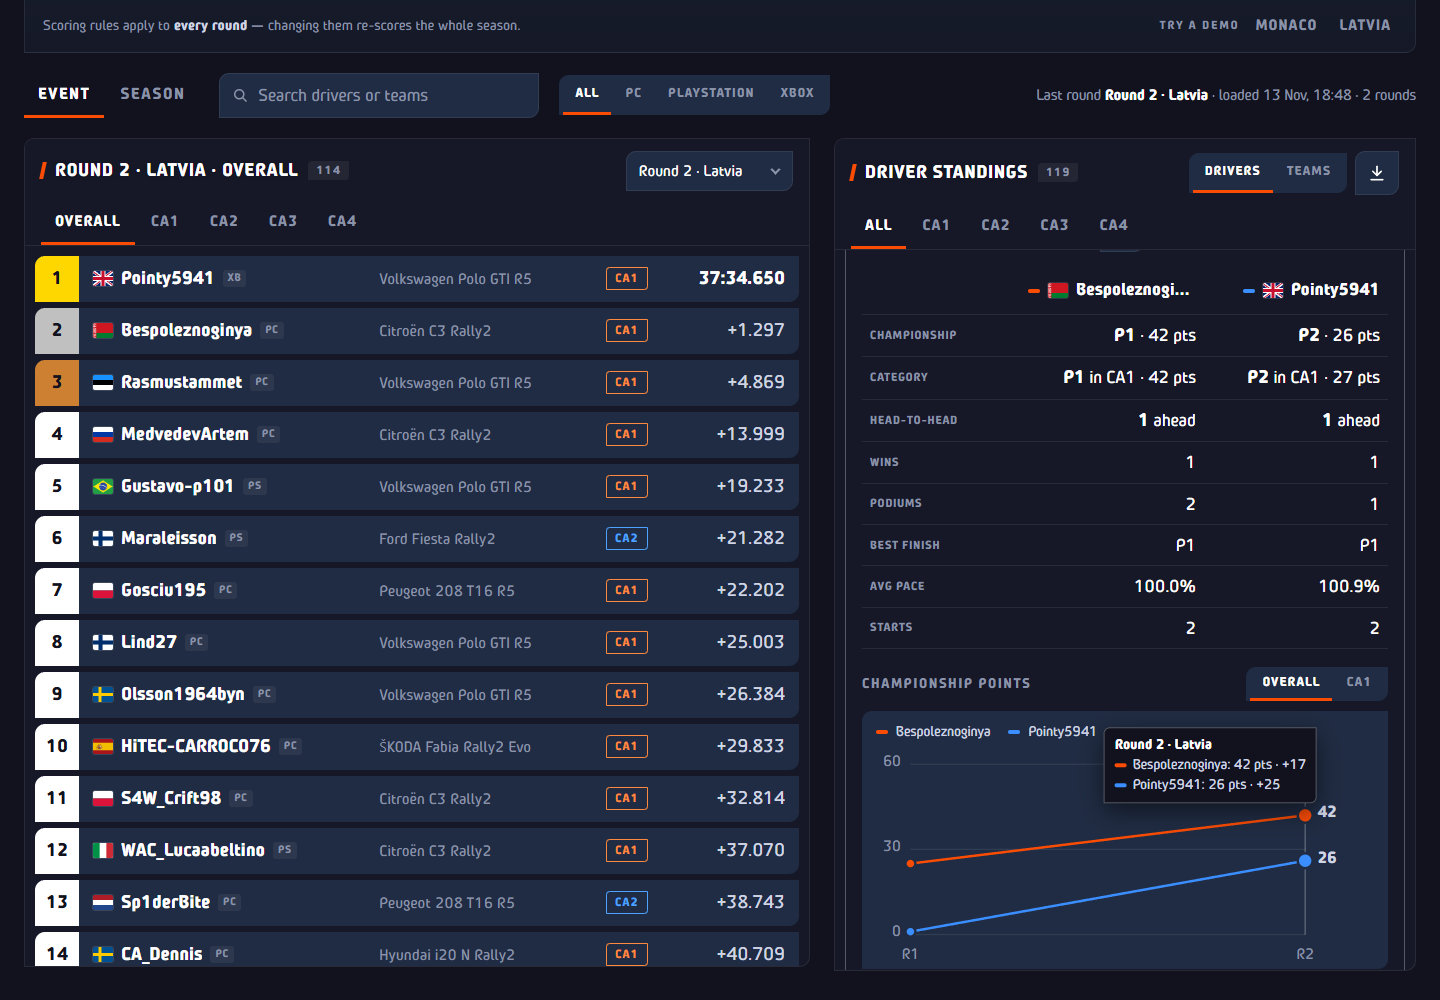
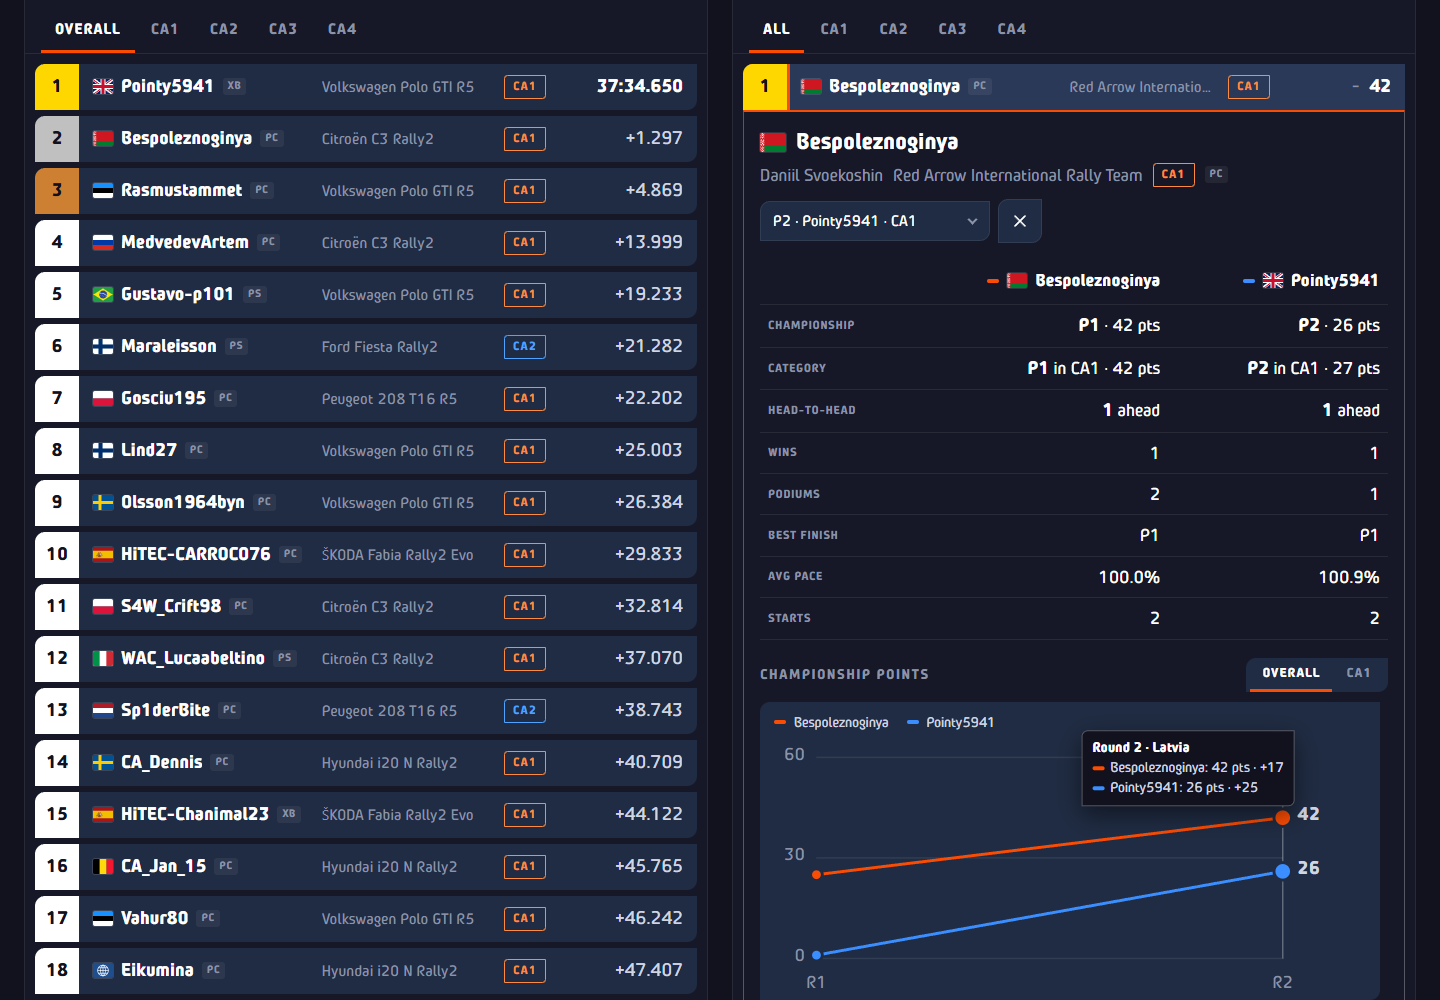
Size both leaderboards to exactly 20 rows and align the load steps
- Results and standings share the width 50/50 and the same height; each
  list shows exactly 20 fixed-height rows and scrolls beyond that
- Panel title rows have a fixed height so both lists start level
- Steps 2 and 3 get field labels so all controls line up with step 1

diff --git a/src/styles.css b/src/styles.css
@@ -431,9 +431,12 @@ select option {
 	width: auto;
 }
 
+/* Same height as the dropdowns and the round-name box so all three steps line up */
 .step-files .dropzone {
-	flex: 1;
+	flex: none;
 	min-height: 44px;
+	padding-top: 6px;
+	padding-bottom: 6px;
 }
 
 .dropzone-hint {
@@ -444,7 +447,7 @@ select option {
 
 .submit-row {
 	display: flex;
-	align-items: center;
+	align-items: flex-end;
 	gap: 14px;
 }
 
@@ -582,11 +585,56 @@ select option {
    Board layout
    ========================================================================== */
 
+/* Results and standings side by side, same width and same height */
 .board-grid {
+	--row-h: 46px;
+	--row-gap: 6px;
+	--rows-visible: 20;
 	display: grid;
-	grid-template-columns: minmax(0, 1.35fr) minmax(0, 1fr);
+	grid-template-columns: minmax(0, 1fr) minmax(0, 1fr);
 	gap: 24px;
-	align-items: start;
+	align-items: stretch;
+}
+
+.board-grid .panel {
+	display: flex;
+	flex-direction: column;
+}
+
+/* The results list shows exactly 20 rows; the standings panel stretches to
+   the same height (so it also shows 20, or more when it has no tabs row). */
+.board-grid .results-panel .list {
+	height: calc(var(--rows-visible) * var(--row-h) + (var(--rows-visible) - 1) * var(--row-gap) + 20px);
+	max-height: none;
+}
+
+.board-grid .standings {
+	min-height: 0;
+}
+
+.board-grid .standings .panel {
+	flex: 1;
+	min-height: 0;
+}
+
+.board-grid .standings .list {
+	flex: 1 1 0;
+	min-height: 0;
+	max-height: none;
+}
+
+.board-grid .row,
+.board-grid .row-detail {
+	flex: none; /* scroll, never squash rows to fit */
+}
+
+.board-grid .row {
+	height: var(--row-h);
+	min-height: 0;
+}
+
+.board-grid .list {
+	gap: var(--row-gap);
 }
 
 .standings,
@@ -599,6 +647,12 @@ select option {
 @media (max-width: 1100px) {
 	.board-grid {
 		grid-template-columns: 1fr;
+	}
+
+	/* Stacked: nothing to stretch to, so both lists use the 20-row height */
+	.board-grid .standings .list {
+		flex: none;
+		height: calc(var(--rows-visible) * var(--row-h) + (var(--rows-visible) - 1) * var(--row-gap) + 20px);
 	}
 }
 
@@ -628,7 +682,9 @@ select option {
 	align-items: center;
 	justify-content: space-between;
 	gap: 12px;
-	min-height: 44px;
+	/* 44px of content + 8px padding on every panel, whatever its buttons, so
+	   side-by-side panels start their rows at exactly the same height */
+	min-height: 52px;
 	padding-bottom: 8px;
 }
 

diff --git a/src/components/LoadPanel.jsx b/src/components/LoadPanel.jsx
@@ -82,6 +82,10 @@ export default function LoadPanel({ settings, onSettingChange, onUpload, demos, 
 				</Step>
 
 				<Step number="2" title="Results files" className="step-files">
+					<div className="field">
+					<span className="field-label" aria-hidden="true">
+						Results CSVs
+					</span>
 					<label
 						className={dropzoneClass}
 						onDragOver={(e) => {
@@ -119,13 +123,14 @@ export default function LoadPanel({ settings, onSettingChange, onUpload, demos, 
 							)}
 						</span>
 					</label>
+					</div>
 					<p className="dropzone-hint">Add teams.csv with them to set teams, categories and nationalities.</p>
 				</Step>
 
 				<Step number="3" title="Name & submit" className="step-submit">
 					<div className="submit-row">
 						<label className="field">
-							<span className="visually-hidden">Round name</span>
+							<span className="field-label">Round name</span>
 							<input
 								type="text"
 								className="text-input"
